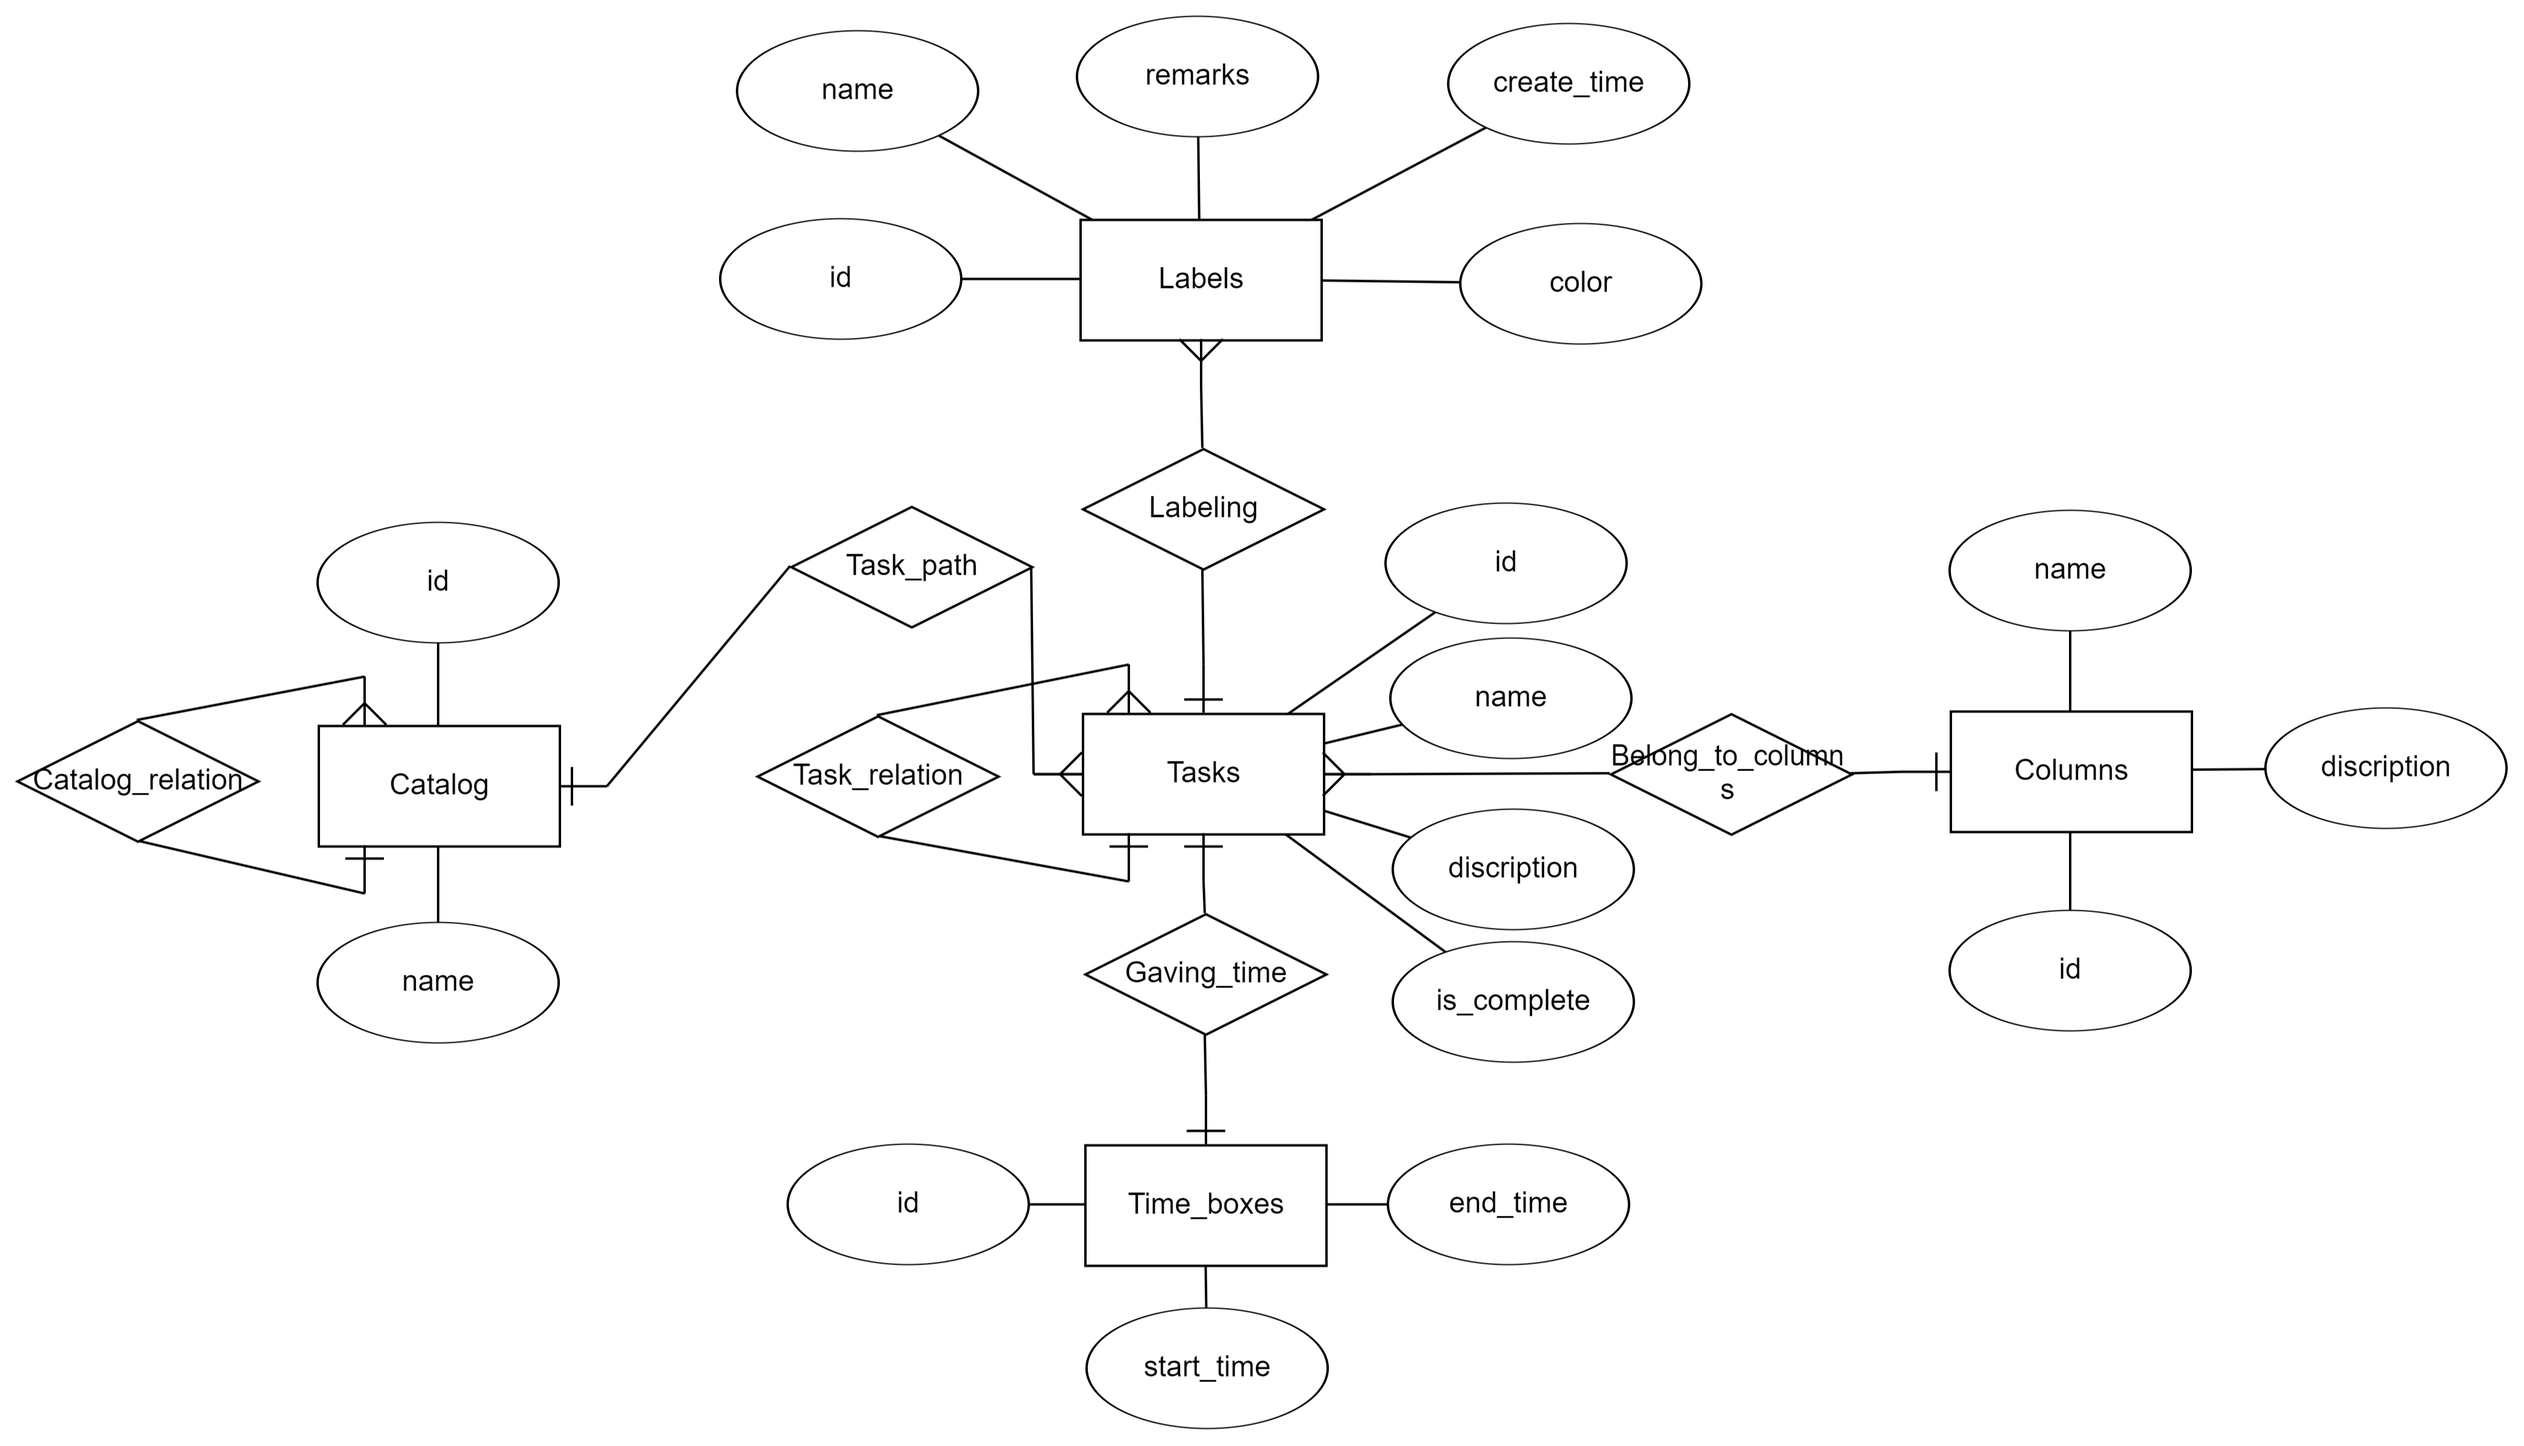
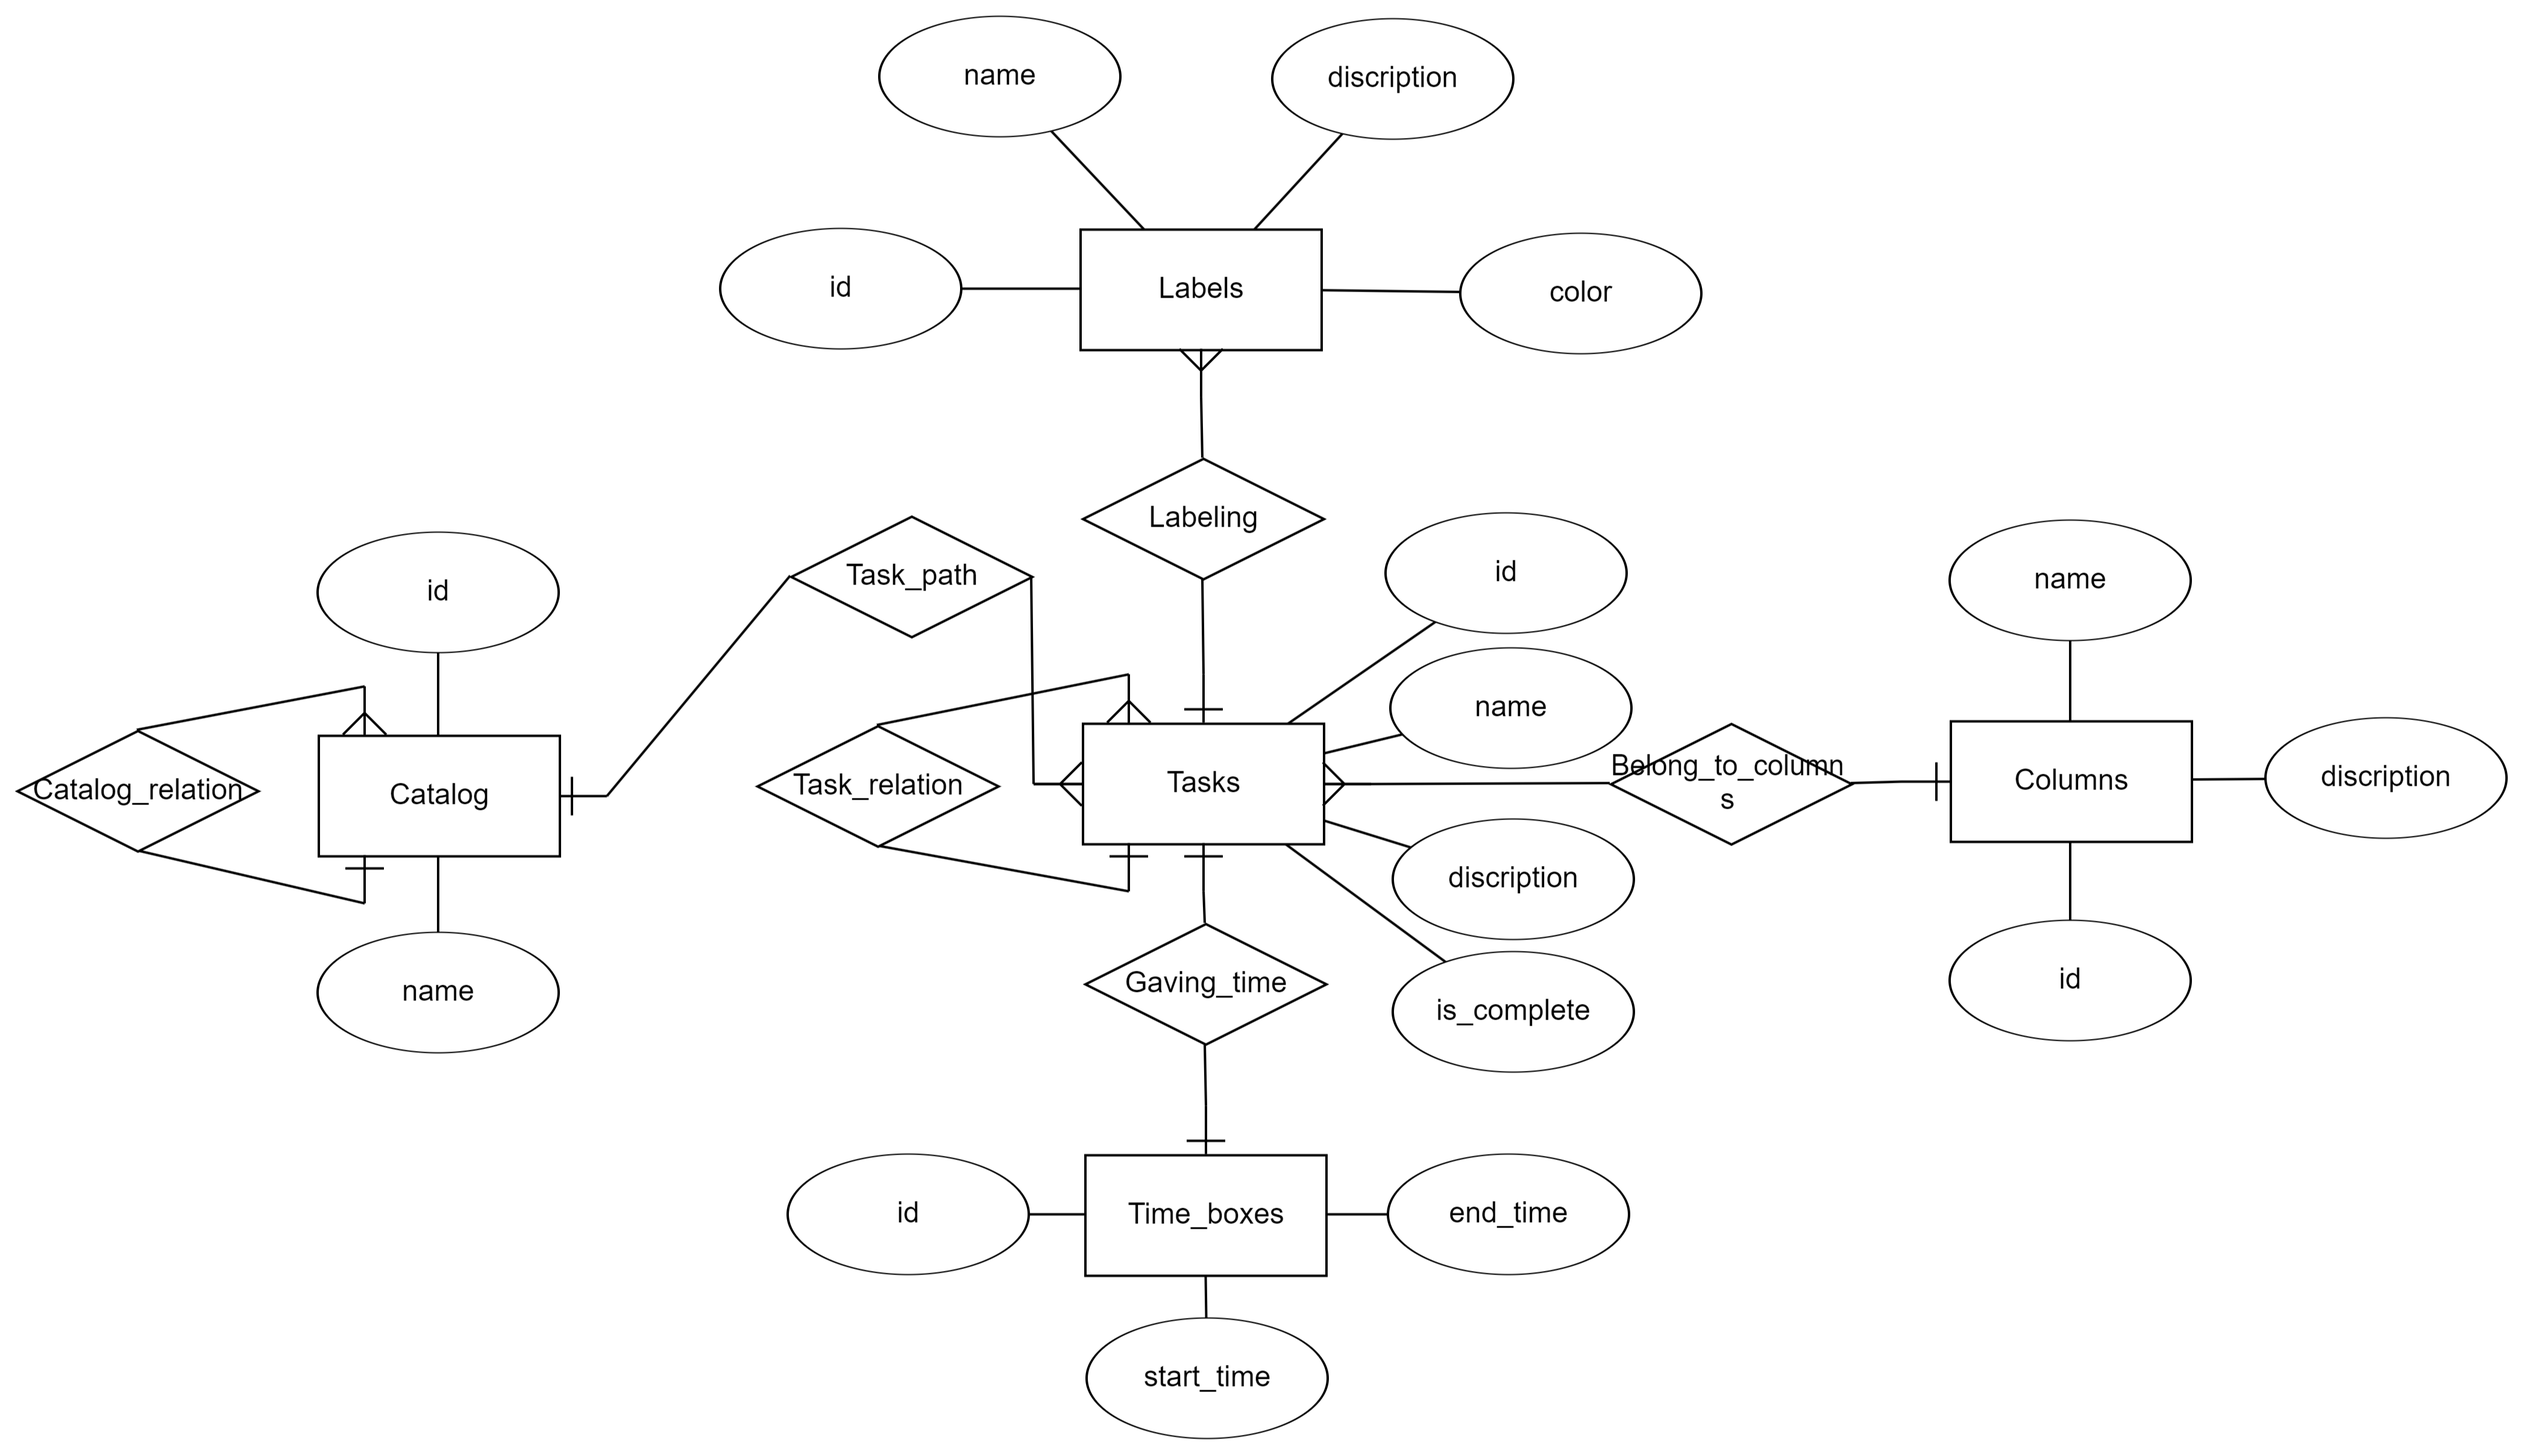
modify docs

diff --git a/devResource/TimePlanner.md b/devResource/TimePlanner.md
@@ -61,7 +61,7 @@
 
    1. E-R图
 
-      ![ER](C:\Users\86131\Desktop\笔记\image\ER.png)
+      ![ER](C:\Users\86131\Desktop\笔记\image\ER-1718536533765-2.png)
    
    2. 模式设计
    
@@ -73,6 +73,102 @@
    
       Time_giving(<u>id</u>, task_id, time_box_id)
    
-      Columns
+      Columns(<u>id</u>, name, discription)
+   
+      Belong_to_columns(<u>id</u>, task_id, column_id)
+   
+      Labels(<u>id</u>, name, color, discription)
+   
+      Labeling(id, task_id, label_id)
+   
+      Catalog(id, name)
+   
+      Catalog_relation(<u>id</u>, ancestor, descendant)
+   
+      Task_path(id, task_id, catalog_id)
    
    3. sql(mysql)代码实现
+   
+      ``` mysql
+      CREATE TABLE IF NOT EXISTS Tasks (
+          id INT AUTO_INCREMENT PRIMARY KEY,
+          name VARCHAR(100) NOT NULL,
+          description TEXT,
+          is_complete BOOLEAN
+      );
+      
+      CREATE TABLE IF NOT EXISTS Task_relation (
+          id INT AUTO_INCREMENT PRIMARY KEY,
+          ancestor INT,
+          descendant INT,
+          CONSTRAINT fk_task_relation_ancestor FOREIGN KEY (ancestor) REFERENCES Tasks(id),
+          CONSTRAINT fk_task_relation_descendant FOREIGN KEY (descendant) REFERENCES Tasks(id)
+      );
+      
+      CREATE TABLE IF NOT EXISTS Time_boxes (
+          id INT AUTO_INCREMENT PRIMARY KEY,
+          start_time DATETIME,
+          end_time DATETIME
+      );
+      
+      CREATE TABLE IF NOT EXISTS Time_giving (
+          id INT AUTO_INCREMENT PRIMARY KEY,
+          task_id INT,
+          time_box_id INT,
+          CONSTRAINT fk_time_giving_task_id FOREIGN KEY (task_id) REFERENCES Tasks(id),
+          CONSTRAINT fk_time_giving_time_box_id FOREIGN KEY (time_box_id) REFERENCES Time_boxes(id)
+      );
+      
+      CREATE TABLE IF NOT EXISTS Columns (
+          id INT AUTO_INCREMENT PRIMARY KEY,
+          name VARCHAR(100) NOT NULL,
+          description TEXT
+      );
+      
+      CREATE TABLE IF NOT EXISTS Belong_to_columns (
+          id INT AUTO_INCREMENT PRIMARY KEY,
+          task_id INT,
+          column_id INT,
+          CONSTRAINT fk_belong_to_columns_task_id FOREIGN KEY (task_id) REFERENCES Tasks(id),
+          CONSTRAINT fk_belong_to_columns_column_id FOREIGN KEY (column_id) REFERENCES Columns(id)
+      );
+      
+      CREATE TABLE IF NOT EXISTS Labels (
+          id INT AUTO_INCREMENT PRIMARY KEY,
+          name VARCHAR(100) NOT NULL,
+          color VARCHAR(20),
+          description TEXT
+      );
+      
+      CREATE TABLE IF NOT EXISTS Labeling (
+          id INT AUTO_INCREMENT PRIMARY KEY,
+          task_id INT,
+          label_id INT,
+          CONSTRAINT fk_labeling_task_id FOREIGN KEY (task_id) REFERENCES Tasks(id),
+          CONSTRAINT fk_labeling_label_id FOREIGN KEY (label_id) REFERENCES Labels(id)
+      );
+      
+      CREATE TABLE IF NOT EXISTS Catalog (
+          id INT AUTO_INCREMENT PRIMARY KEY,
+          name VARCHAR(100)
+      );
+      
+      CREATE TABLE IF NOT EXISTS Catalog_relation (
+          id INT AUTO_INCREMENT PRIMARY KEY,
+          ancestor INT,
+          descendant INT,
+          CONSTRAINT fk_catalog_relation_ancestor FOREIGN KEY (ancestor) REFERENCES Catalog(id),
+          CONSTRAINT fk_catalog_relation_descendant FOREIGN KEY (descendant) REFERENCES Catalog(id)
+      );
+      
+      CREATE TABLE IF NOT EXISTS Task_path (
+          id INT AUTO_INCREMENT PRIMARY KEY,
+          task_id INT,
+          catalog_id INT,
+          CONSTRAINT fk_task_path_task_id FOREIGN KEY (task_id) REFERENCES Tasks(id),
+          CONSTRAINT fk_task_path_catalog_id FOREIGN KEY (catalog_id) REFERENCES Catalog(id)
+      );
+      ```
+
+3. 
+
